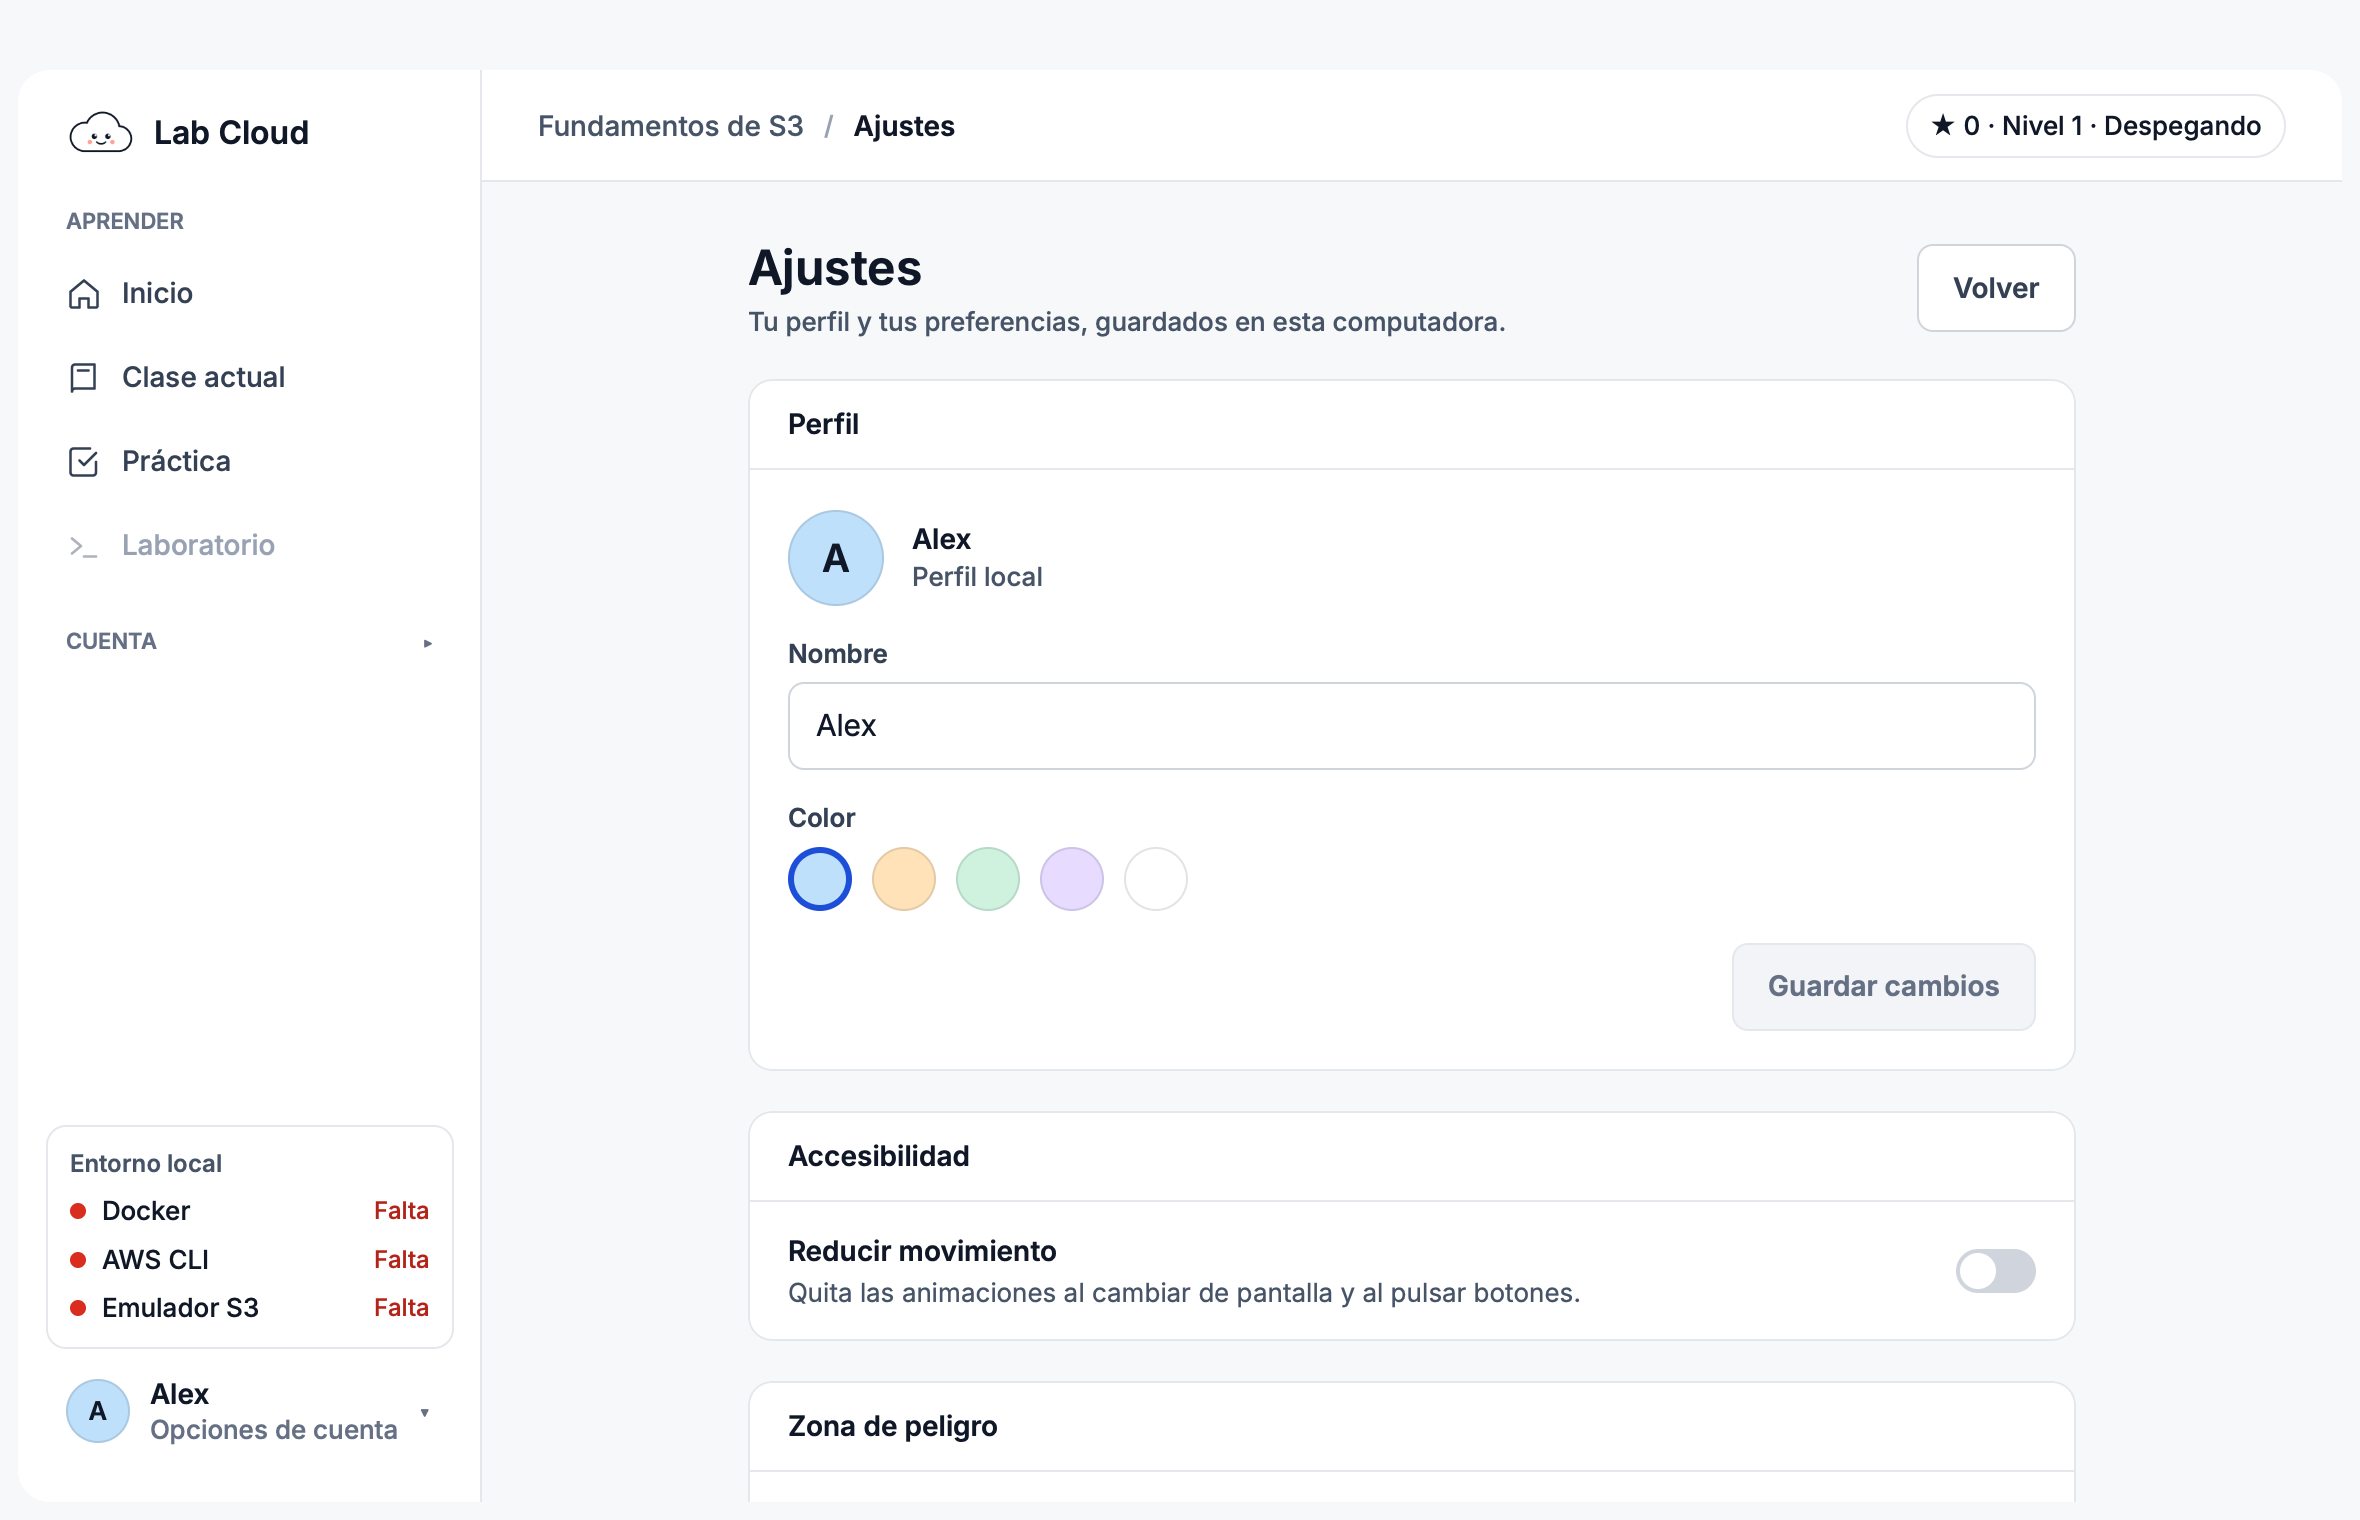
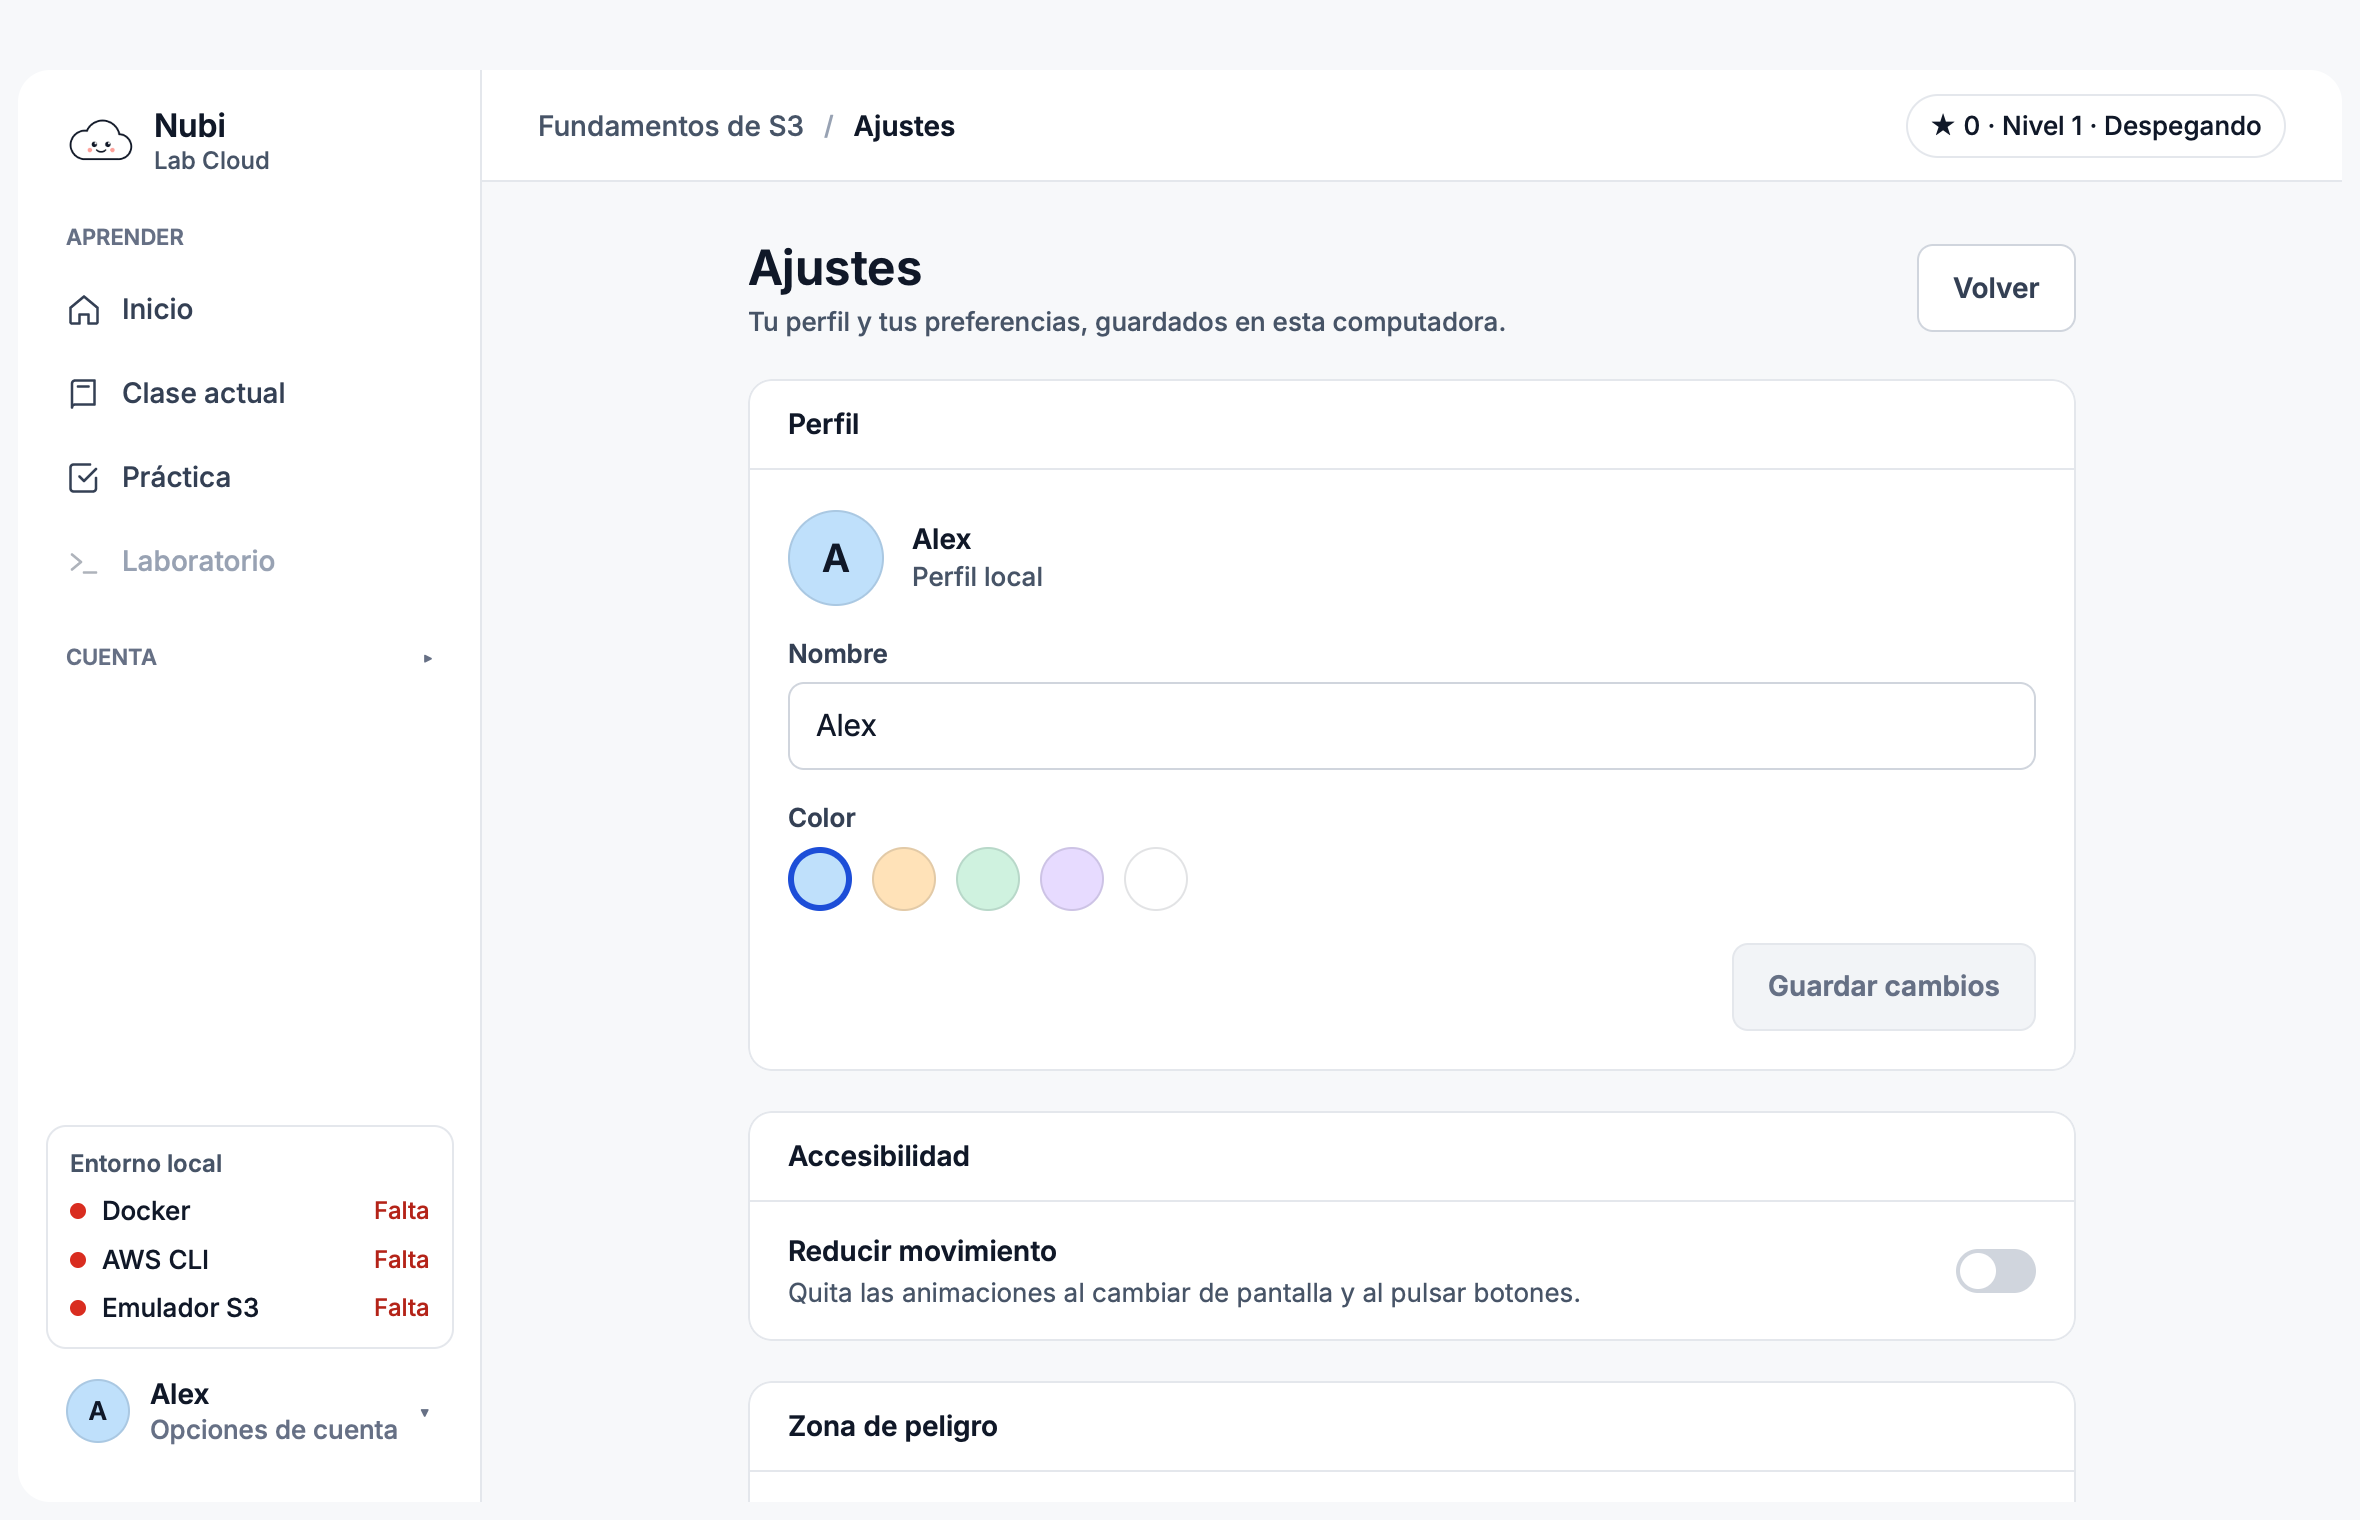
docs: rename the website, README and screenshots to Nubi

Changed region(s): [[0.0309, 0.0618, 0.1237, 0.2164], [0.0309, 0.2474, 0.1237, 0.3711], [0.0309, 0.402, 0.0619, 0.4329]]

diff --git a/docs/index.html b/docs/index.html
@@ -3,9 +3,9 @@
 <head>
 <meta charset="utf-8">
 <meta name="viewport" content="width=device-width, initial-scale=1">
-<title>Lab Cloud AWS</title>
+<title>Nubi</title>
 <meta name="description" content="Aprende AWS en español con clases, práctica y laboratorios que corren en tu computadora, sin cuenta de AWS.">
-<meta property="og:title" content="Lab Cloud AWS">
+<meta property="og:title" content="Nubi (Lab Cloud)">
 <meta property="og:description" content="Aprende AWS en español con laboratorios locales, sin cuenta de AWS.">
 <meta property="og:image" content="screenshots/inicio.png">
 <link rel="icon" href="nubi.svg" type="image/svg+xml">
@@ -91,6 +91,8 @@ nav {
 nav .wrap { display: flex; align-items: center; justify-content: space-between; height: 64px; }
 .brand { display: flex; align-items: center; gap: 10px; font-weight: 650; text-decoration: none; }
 .brand img { width: 36px; }
+.brand span { display: flex; flex-direction: column; line-height: 1.15; }
+.brand small { font-size: 12px; font-weight: 500; color: var(--ink-2); }
 .nav-links { display: flex; align-items: center; gap: 28px; }
 .nav-links a:not(.btn) { text-decoration: none; color: var(--ink-2); font-size: 15px; }
 .nav-links a:not(.btn):hover { color: var(--ink); }
@@ -266,12 +268,12 @@ footer a { color: var(--ink-2); }
 
 <nav>
   <div class="wrap">
-    <a class="brand" href="#"><img src="nubi.svg" alt="">Lab Cloud</a>
+    <a class="brand" href="#"><img src="nubi.svg" alt=""><span>Nubi<small>Lab Cloud</small></span></a>
     <div class="nav-links">
       <a href="#recorrido">Recorrido</a>
       <a href="#laboratorio">Laboratorio</a>
       <a href="#descargar">Descargar</a>
-      <a class="btn btn-ghost" href="https://github.com/Leoglez10/lab-cloud-aws"><i class="ph ph-github-logo"></i>GitHub</a>
+      <a class="btn btn-ghost" href="https://github.com/Leoglez10/nubi"><i class="ph ph-github-logo"></i>GitHub</a>
     </div>
   </div>
 </nav>
@@ -287,7 +289,7 @@ footer a { color: var(--ink-2); }
       </div>
     </div>
     <div class="hero-visual">
-      <div class="shot"><img src="screenshots/inicio.png" width="2360" height="1520" alt="Pantalla de inicio de Lab Cloud con el progreso del módulo de S3 y la clase para continuar" fetchpriority="high"></div>
+      <div class="shot"><img src="screenshots/inicio.png" width="2360" height="1520" alt="Pantalla de inicio de Nubi con el progreso del módulo de S3 y la clase para continuar" fetchpriority="high"></div>
       <img class="nubi" src="nubi.svg" alt="">
     </div>
   </div>
@@ -373,31 +375,31 @@ answers = ["aws s3 ls"]</pre>
 <section class="dl" id="descargar">
   <div class="wrap">
     <div class="reveal">
-      <h2>Descarga Lab Cloud.</h2>
+      <h2>Descarga Nubi.</h2>
       <p style="margin-top:16px">Gratis y de código abierto. Al abrir, la app revisa tu entorno y te ofrece un botón para instalar o iniciar lo que falte.</p>
       <div class="reqs">
         <span class="pill"><i class="ph ph-cube"></i>Docker</span>
         <span class="pill"><i class="ph ph-terminal-window"></i>AWS CLI v2</span>
       </div>
-      <a class="notes" href="https://github.com/Leoglez10/lab-cloud-aws/releases/latest">Notas de la versión <i class="ph ph-arrow-up-right"></i></a>
+      <a class="notes" href="https://github.com/Leoglez10/nubi/releases/latest">Notas de la versión <i class="ph ph-arrow-up-right"></i></a>
     </div>
     <div class="os-list">
       <div class="os reveal" data-os="mac">
         <i class="ph ph-apple-logo"></i>
         <div><h3>macOS</h3><p>Apple Silicon e Intel, macOS 11 o superior.</p></div>
-        <a class="btn btn-primary" href="https://github.com/Leoglez10/lab-cloud-aws/releases/latest/download/LabCloud-macos.dmg">.dmg</a>
+        <a class="btn btn-primary" href="https://github.com/Leoglez10/nubi/releases/latest/download/nubi-macos.dmg">.dmg</a>
       </div>
       <div class="os reveal" data-os="win">
         <i class="ph ph-windows-logo"></i>
         <div><h3>Windows</h3><p>Windows 10 u 11, 64 bits. Un solo .exe, sin instalador.</p></div>
-        <a class="btn btn-primary" href="https://github.com/Leoglez10/lab-cloud-aws/releases/latest/download/LabCloud-windows-x64.exe">.exe</a>
+        <a class="btn btn-primary" href="https://github.com/Leoglez10/nubi/releases/latest/download/nubi-windows-x64.exe">.exe</a>
       </div>
       <div class="os reveal" data-os="linux">
         <i class="ph ph-linux-logo"></i>
         <div><h3>Linux</h3><p>64 bits. Paquete .deb para Debian y Ubuntu, o .tar.gz para el resto.</p></div>
         <div class="os-btns">
-          <a class="btn btn-primary" href="https://github.com/Leoglez10/lab-cloud-aws/releases/latest/download/LabCloud-linux-x64.deb">.deb</a>
-          <a class="btn btn-ghost" href="https://github.com/Leoglez10/lab-cloud-aws/releases/latest/download/LabCloud-linux-x64.tar.gz">.tar.gz</a>
+          <a class="btn btn-primary" href="https://github.com/Leoglez10/nubi/releases/latest/download/nubi-linux-x64.deb">.deb</a>
+          <a class="btn btn-ghost" href="https://github.com/Leoglez10/nubi/releases/latest/download/nubi-linux-x64.tar.gz">.tar.gz</a>
         </div>
       </div>
       <details class="warn reveal">
@@ -418,8 +420,8 @@ answers = ["aws s3 ls"]</pre>
     <ol>
       <li class="reveal">
         <h3><i class="ph ph-git-branch"></i>Clona el repositorio</h3>
-        <div class="code"><code>git clone https://github.com/Leoglez10/lab-cloud-aws.git
-cd lab-cloud-aws</code><button class="copy" aria-label="Copiar comando"><i class="ph ph-copy"></i></button></div>
+        <div class="code"><code>git clone https://github.com/Leoglez10/nubi.git
+cd nubi</code><button class="copy" aria-label="Copiar comando"><i class="ph ph-copy"></i></button></div>
       </li>
       <li class="reveal">
         <h3><i class="ph ph-play"></i>Abre la app</h3>
@@ -452,7 +454,7 @@ cd lab-cloud-aws</code><button class="copy" aria-label="Copiar comando"><i class
 <section class="end">
   <div class="wrap">
     <div class="box reveal">
-      <img src="nubi.svg" alt="Nubi, la mascota de Lab Cloud">
+      <img src="nubi.svg" alt="Nubi">
       <div><h2 style="font-size:clamp(1.5rem,1.1rem + 1.4vw,2.1rem)">Nubi te espera en la primera clase.</h2><p>Código abierto en GitHub. Reporta ideas o errores en los issues.</p></div>
       <a class="btn btn-primary" href="#descargar"><i class="ph ph-download-simple"></i>Descargar</a>
     </div>
@@ -461,8 +463,8 @@ cd lab-cloud-aws</code><button class="copy" aria-label="Copiar comando"><i class
 
 <footer>
   <div class="wrap">
-    <span>Lab Cloud AWS. Proyecto independiente, no afiliado a Amazon Web Services.</span>
-    <span>Labs sobre <a href="https://github.com/aws/aws-emulator">AWS Emulator</a>. Código en <a href="https://github.com/Leoglez10/lab-cloud-aws">GitHub</a>.</span>
+    <span>Nubi (Lab Cloud). Proyecto independiente, no afiliado a Amazon Web Services.</span>
+    <span>Labs sobre <a href="https://github.com/aws/aws-emulator">AWS Emulator</a>. Código en <a href="https://github.com/Leoglez10/nubi">GitHub</a>.</span>
   </div>
 </footer>
 

diff --git a/README.md b/README.md
@@ -1,6 +1,6 @@
-# Lab Cloud AWS
+# Nubi
 
-A desktop app to learn AWS in Spanish, one guided class at a time, with every hands-on lab
+Nubi (Lab Cloud) is a desktop app to learn AWS in Spanish, one guided class at a time, with every hands-on lab
 running on your own machine against the local [AWS Emulator](https://github.com/aws/aws-emulator).
 No AWS account, no cloud bill, no passwords.
 
@@ -8,7 +8,7 @@ No AWS account, no cloud bill, no passwords.
 
 ## What it is
 
-Lab Cloud teaches AWS fundamentals the way a short course would: each **class** explains one
+Nubi teaches AWS fundamentals the way a short course would: each **class** explains one
 idea with drawings and a worked example, then you **practice** with quick questions, then you
 run real `aws` commands in a **lab** terminal built into the app. Your progress is saved
 locally as stars, and you can replay anything to perfect it.
@@ -58,8 +58,8 @@ IAM/STS, DynamoDB, SQS and SNS are planned next; see [PLAN.md](PLAN.md).
 ## Download
 
 Get the app for macOS (`.dmg`), Windows (`.exe`) or Linux (`.deb`, `.tar.gz`) from the
-[latest release](https://github.com/Leoglez10/lab-cloud-aws/releases/latest) or the
-[website](https://leoglez10.github.io/lab-cloud-aws/). You still need Docker and AWS CLI v2.
+[latest release](https://github.com/Leoglez10/nubi/releases/latest) or the
+[website](https://leoglez10.github.io/nubi/). You still need Docker and AWS CLI v2.
 Builds are not signed yet: on macOS, try to open the app once and then choose
 **Open Anyway** in System Settings → Privacy & Security; on Windows, choose
 **More info → Run anyway** in SmartScreen.
@@ -73,8 +73,8 @@ Requirements:
 - [AWS CLI v2](https://docs.aws.amazon.com/cli/latest/userguide/getting-started-install.html)
 
 ```sh
-git clone https://github.com/Leoglez10/lab-cloud-aws.git
-cd lab-cloud-aws
+git clone https://github.com/Leoglez10/nubi.git
+cd nubi
 cargo run
 ```
 
@@ -102,7 +102,8 @@ delete the profile after a confirmation.
 
 ## Your data
 
-Everything stays on your computer, in the OS app-data folder:
+Everything stays on your computer, in the OS app-data folder. The folder keeps the
+app's former name, `LabCloud`, so profiles created before the rename to Nubi are kept:
 
 | OS | Folder |
 |---|---|
@@ -163,8 +164,10 @@ UI tests drive the real views headlessly with Rune's `Runtime` (clicks, keyboard
 Headless snapshots of any screen:
 
 ```sh
-cargo run -- --snap out.png --scene <name>
+cargo run -- --snap out.png --scene <name> --at 1.5
 ```
+
+`--at 1.5` captures the screen after its entry motion has settled and its images are drawn.
 
 Releases: push a `v*` tag (for example `git tag v0.1.0 && git push origin v0.1.0`) and
 `.github/workflows/release.yml` builds the macOS `.dmg` (`scripts/package-macos.sh`), the

diff --git a/PLAN.md b/PLAN.md
@@ -1,4 +1,4 @@
-# Lab Cloud AWS — Plan
+# Nubi (Lab Cloud) — Plan
 
 Game-like desktop app to learn AWS: short lessons, a horizontal learning map in the
 clouds, levels and mastery ("perfection") instead of punishment. Every hands-on lab runs 100% locally
@@ -173,6 +173,12 @@ Scope:
 ### Phase 6 — More game
 - Mini-games (architecture builder, command puzzles), achievements for perfect units,
   "what happens inside" animations.
+
+### Rename to Nubi (done 2026-11-14)
+- [x] App, crate and binary are `nubi`; "Lab Cloud" stays as the subtitle. Repo renamed to
+  `Leoglez10/nubi`, website at https://leoglez10.github.io/nubi/, release assets `nubi-*`.
+- [x] Kept on purpose: the data folder (`LabCloud` / `labcloud`), the emulator image and
+  container (`labcloud/aws-emulator`, `labcloud-emulator`) and the `nubi@labcloud $` prompt.
 
 ### Phase 7 — Website (GitHub Pages) (mostly done 2026-11-14, `docs/index.html`)
 - [x] Landing page for the project, served by GitHub Pages from `main` / `docs/`.
